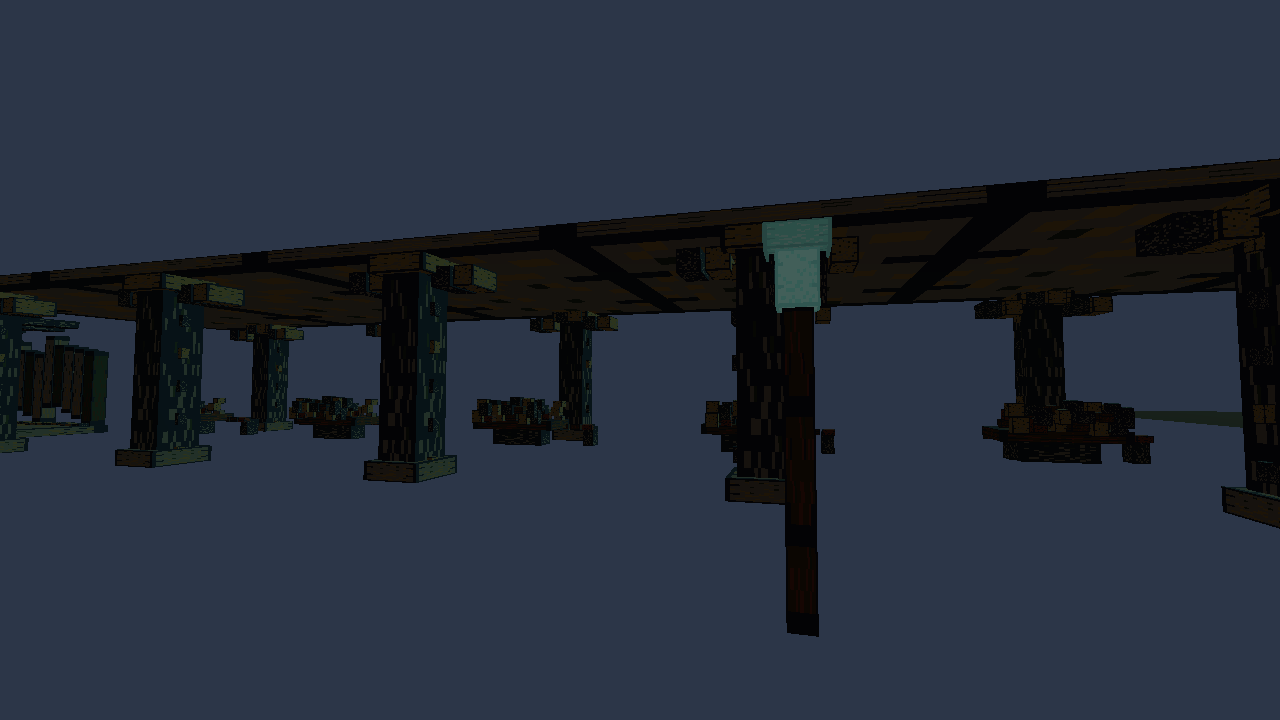
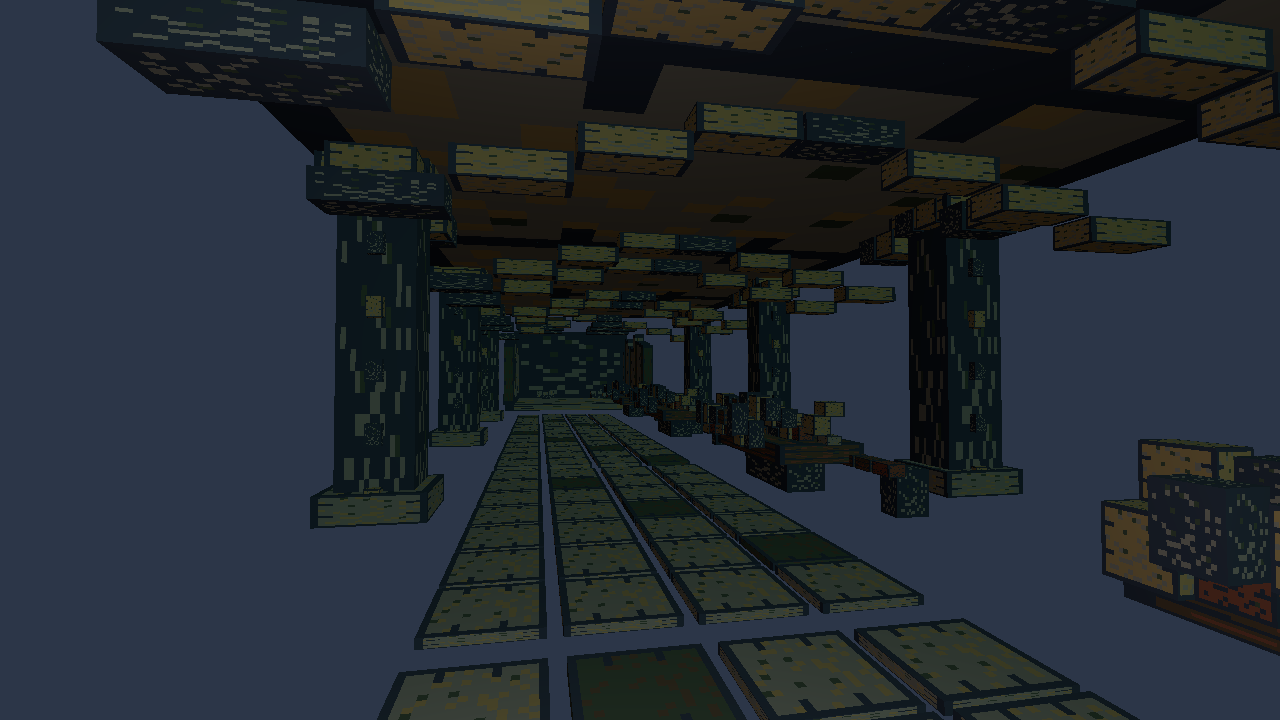
U-10 visual review R4/R5: reshape roofs, arcade vault and pavement after 4 camera critique

diff --git a/tests/town-blockout-underground-warrior-architecture.test.ts b/tests/town-blockout-underground-warrior-architecture.test.ts
@@ -13,11 +13,11 @@ test('YS4 mass modeling actually builds twelve complete houses, four furnished h
   assert.equal(tally.marketBays, 7);
   assert.equal(tally.ruination, 1);
   assert.equal(tally.wallMeters, 90);
-  assert.ok(tally.architecturePieces > 6000,
+  assert.ok(tally.architecturePieces > 6800,
     'round 1 must produce real buildings rather than a tiny API/test-only patch');
-  assert.ok(tally.facadePieces >= 4000);
+  assert.ok(tally.facadePieces >= 4700);
   assert.ok(tally.roomPieces >= 270);
-  assert.ok(tally.marketPieces >= 700);
+  assert.ok(tally.marketPieces >= 1000);
   assert.ok(tally.ruinedHousePieces >= 70);
   assert.ok(tally.wallPieces >= 700);
   assert.equal(pieces.length,
@@ -33,6 +33,9 @@ test('YS4 each stone house has continuous front/rear courses, roof tiles and a r
     assert.ok(props.some(piece => piece.name.includes('/jamb--1')));
     assert.ok(props.some(piece => piece.name.includes('/jamb-1')));
     assert.ok(props.filter(piece => piece.name.includes('/roof-tile-')).length >= 24);
+    assert.equal(props.filter(piece => piece.name.includes('/pitched-roof-course-')).length, 18,
+      'the first screenshot showed an over-flat roof: stepped roof courses must now be visible');
+    assert.equal(props.filter(piece => piece.name.includes('/stepped-roof-gable-')).length, 18);
     assert.ok(props.filter(piece => piece.name.includes('/rear-course-')).length >= 80);
     assert.ok(props.filter(piece => piece.name.includes('/front-course-')).length >= 60);
     assert.ok(props.every(piece => !piece.name.includes('sign') && !piece.name.includes('placeholder')));
@@ -53,9 +56,11 @@ test('YS4 seven market bays have vault ribs, physical-looking ware clusters and 
   for (let bay = 0; bay < 7; bay++) {
     const prefix = 'u10/arcade-bay-' + bay + '/';
     const props = market.filter(piece => piece.name.startsWith(prefix));
-    assert.ok(props.length >= 100, prefix);
+    assert.ok(props.length >= 140, prefix);
     assert.equal(props.filter(piece => piece.name.includes('/coffer-')).length, 30);
     assert.equal(props.filter(piece => piece.name.includes('/wares-')).length, 29);
+    assert.equal(props.filter(piece => piece.name.includes('/visible-vault-')).length, 16);
+    assert.equal(props.filter(piece => piece.name.includes('/floor-course-')).length, 28);
     assert.equal(props.filter(piece => piece.name.includes('/counter-slats-')).length, 9);
     assert.ok(props.filter(piece => piece.solid).length <= 2,
       'market aisle should not be filled with invisible impassable furniture');
@@ -87,7 +92,7 @@ test('YS5 supporting battlement courses follow the certified 90m range without f
     'extension ornaments may not create new unregistered walls on the 90m walk');
 });
 
-test('YS4/YS5 6107 new blocks are finite, positive and batched into the eight existing stone palettes', () => {
+test('YS4/YS5 full architecture stays finite and batched into the eight approved stone palettes', () => {
   const names = new Set<string>();
   const families = new Set<string>();
   for (const piece of pieces) {

diff --git a/tools/voxel-tavern/town-blockout/underground-warrior-architecture.ts b/tools/voxel-tavern/town-blockout/underground-warrior-architecture.ts
@@ -124,6 +124,26 @@ function buildStoneHomes() {
         x, h + .62, front + side * (1.35 + r * 2.75),
         .38, .24, 2.6);
     }
+    // R4 silhouette correction after the actual screenshot review: ancient
+    // double-pitched roofs rise toward a stepped high central ridge instead
+    // of reading as a single flat sheet across twelve identical house fronts.
+    for (let col = 0; col < 9; col++) {
+      const e = x - w / 2 + .53 + col * (w - 1.06) / 8;
+      const tier = Math.min(col, 8 - col);
+      for (let r = 0; r < 2; r++) {
+        block('home-facade', prefix + '/pitched-roof-course-' + col + '-' + r,
+          (col + index + r) % 5 === 0 ? 'shade' : 'tan',
+          e, h + .64 + tier * .095,
+          front + side * (2.4 + r * 3.7),
+          .66, .16, 3.52);
+      }
+      for (const gable of [front, rear]) {
+        block('home-facade', prefix + '/stepped-roof-gable-' + col + '-' + gable,
+          tier % 3 ? 'wall' : 'shade', e, h + .43 + tier * .09,
+          gable + (gable > 0 ? .18 : -.18),
+          .68, .26 + tier * .08, .23);
+      }
+    }
     // The eight sealed doors still have complete facades and readable debris,
     // but no invisible working inside or player-through-wall route.
     if (!house.accessible) {
@@ -226,6 +246,19 @@ function buildArcade() {
           n + (side ? .2 : -.2), .4, .38, .83);
       }
     }
+    // R4 picture review found the continuous ceiling visually too flat.
+    // Exposed 8-segment stepped vaults cross the aisle above 2.8m headroom;
+    // every bay gets a real visible masonry arch, not a floating roof sheet.
+    for (let vault = 0; vault < 8; vault++) {
+      const north = -17.55 - vault * 1.04;
+      const archRise = (1 - Math.abs(vault - 3.5) / 3.5) * .92;
+      for (const edge of [-1, 1]) {
+        block('arcade-market', name + '/visible-vault-' + edge + '-' + vault,
+          vault % 4 === 0 ? 'shade' : 'tan',
+          x + edge * 2.24, 3.15 + archRise, north,
+          .42, .26, 1.01);
+      }
+    }
     // Curved-appearance stepped ceiling formed by offset voxel courses.
     for (let row = 0; row < 5; row++) for (let col = 0; col < 6; col++) {
       const e = x - 2.53 + col * 1.0;
@@ -250,6 +283,15 @@ function buildArcade() {
         rail % 3 === 0 ? 'rust' : 'wood',
         x - 1.20 + rail * .36, .55, -22.88,
         .31, .15, .22);
+    }
+    // R5 patchwork slate floor: material participates in the camera's low
+    // foreground, but the top remains 2cm BELOW accepted y=0 feet. This is
+    // authentic paving, not a new invisible physics blocker.
+    for (let p = 0; p < 7; p++) for (let lane = 0; lane < 4; lane++) {
+      block('arcade-market', name + '/floor-course-' + p + '-' + lane,
+        (p + 2 * lane + bay) % 11 ? 'wall' : 'moss',
+        x - 2.85 + p * .88, -.06, -18.45 - lane * .95,
+        .82, .075, .84);
     }
     for (const edge of [-1, 1]) {
       block('arcade-market', name + '/counter-foot-' + edge, 'shade',

diff --git a/tools/fixtures/underground-warrior-architecture-review.ts b/tools/fixtures/underground-warrior-architecture-review.ts
@@ -1,6 +1,6 @@
 import {
   AmbientLight, Color, DirectionalLight, FogExp2, Mesh, MeshStandardMaterial,
-  PerspectiveCamera, PlaneGeometry, Scene, WebGLRenderer,
+  PerspectiveCamera, PlaneGeometry, PointLight, Scene, WebGLRenderer,
 } from 'three';
 import { mountWarriorStoneDistrict } from '../voxel-tavern/town-blockout/underground-warrior-stone-district';
 
@@ -27,6 +27,13 @@ renderer.setSize(window.innerWidth, window.innerHeight);
 renderer.setClearColor(0x2c3648);
 document.body.append(renderer.domElement);
 const camera = new PerspectiveCamera(67, window.innerWidth / window.innerHeight, .09, 300);
+// Review-only approximation of the accepted player's headlamp in U-13.
+// It does not register a new light in the official city scene or circumvent
+// the six real moonstone fixtures and server-selected budget of three.
+const reviewHeadlamp = new PointLight(0xe8ecf0, 7.2, 17, 2);
+reviewHeadlamp.position.set(0, 0, -.15);
+camera.add(reviewHeadlamp);
+scene.add(camera);
 const views = {
   'home-street': {
     eye: [47, 1.67, 1.5] as const,
@@ -37,12 +44,12 @@ const views = {
     target: [37.75, 1.55, -15.5] as const,
   },
   'market-arcade': {
-    eye: [141, 1.68, 8.3] as const,
-    target: [145, 2.4, 22] as const,
+    eye: [141, 1.68, 18.8] as const,
+    target: [158, 2.1, 22] as const,
   },
   'citywall-top': {
-    eye: [124, 8.77, -26.65] as const,
-    target: [139, 2.25, -5.4] as const,
+    eye: [101, 8.77, -27] as const,
+    target: [155, 7.85, -27] as const,
   },
 } as const;
 type View = keyof typeof views;

diff --git a/docs/交流区/GPT/窗C-U10七轮建模大批交付-2026-11-21.md b/docs/交流区/GPT/窗C-U10七轮建模大批交付-2026-11-21.md
@@ -15,17 +15,17 @@
 | R1 主体大量建模 | 12 户石屋的前后大面积多层错缝石墙、门梁门框、扶壁、屋檐、屋顶瓦片、破损梁、檐部；7 摊石质拱廊支撑与连续拱顶；90m 城墙外立面与扶壁 | 不新造主窗口 YS1 五段主街、YS2 锻造、YS3 勇士像；四户开放/八户封锁原设计不改 |
 | R2 补完剩余建模 | 4 户真可进屋补足墙柜、石凳、独立家居器皿与工具人迹；7 摊均有货架/柜体/器物/顶棚；补建拱廊尽头原缺少的**完整半塌石屋**（冰傀儡场地视觉标记、不自行刷怪） | 每屋物品不同但不写未核故事文字；不重复造怪物权威 |
 | R3 修补与碰撞 | 用真实 `isClearLocal([E,Y,N],.27,1.8)` 扫过石屋主街、市场横向走廊、半塌屋入口和 90m 城墙顶；四户可进入原有 BFS 均能到搜寻/掩护点，门内不走墙后暗路；新结构级碰撞仅 77 个，不给每个小砖块建假障碍 | 仅证明经宿主注册后的构件几何与测试脚，不等于默认玩家已在正式地下域实走 |
-| R4 参考图画风 | 依据参考 02/04 室内、05/07 暗岩，改 `16×16` 色板材质：最近邻、禁止 mipmap 平滑、石材凿痕/磨损/像素描边、木纹、锈斑/漏痕，只从既定八种石木晶颜色取色；月光石微弱自发光只强化已注册光源 | 暗场和冷暖对比受生产灯光/宿主预算限制，不冒充比图通过 |
-| R5 细节 | 木/锈柜、屋顶板、井字门柱、外墙排水小石、小器具、满架摊台、城市守城遗迹等随 R1/R2 已批量入形；全物体共用 8 组 InstancedMesh | 不用实体数量代替真实第一人称清晰度；仍须总控美术审稿 |
+| R4 参考图画风 | 依据参考 02/04 室内、05/07 暗岩，改 `16×16` 色板材质：最近邻、禁止 mipmap 平滑、石材凿痕/磨损/像素描边、木纹、锈斑/漏痕，只从既定八种石木晶颜色取色；月光石微弱自发光只强化已注册光源；**第一版截图打回屋顶轮廓过平，第二版加双坡屋面/檐口高低级差** | 暗场和冷暖对比受生产灯光/宿主预算限制，不冒充正式世界比图通过 |
+| R5 细节 | 木/锈柜、屋顶板、井字门柱、外墙排水小石、小器具、满架摊台、城市守城遗迹等随 R1/R2 已批量入形；**对照首版市场截图补每摊跨间显形拱券和 28 片石板路**，全物体共用 8 组 InstancedMesh | 不用实体数量代替真实第一人称清晰度；仍须总控美术审稿 |
 | R6 玩法 | 原 U-10 11 个活动站位使用同一共享脚点与 Presence 权威；E 真实请求号/版本/同域/视线/持久事务防重放，未许前端结算 G-11 奖励 | **真实服务器接入、地下 −165m 与默认出生 E** 未确认；本批不伪报正式挂载 |
 | R7 审核推送 | 模型批先提交/推送 `lane-c`，再检查定向/地下套测、TypeScript/Vite 构建、Chromium 四机位截图、用最新主干审合；发生冲突停下修正，不强推 | 接入与上线认定仍以总控默认出生点实走为准 |
 
 ## 可复核的建筑体量、性能与浏览器验收
 
-- `tools/voxel-tavern/town-blockout/underground-warrior-architecture.ts` 新增 **6,107 块建筑构件**：前后/侧面与屋顶外构 4,325、四屋内 281、七摊拱廊 714、廊尾半塌石屋 75、城墙饰构 712；附加结构级物理碰撞 **77**。原 U-10 场景几何加上这些总 **8,181** 块；不是复制几百个空盒。
-- 单独被审的四个镜头（本地 Chrome，1280×720）：`1-home-street.png` 石屋街，`2-home-interior.png` 可进屋，`3-market-arcade.png` 市场，`4-citywall-top.png` 城顶，均在旁边子目录 `窗C-U10建模审图-2026-11-21`；机器自测四镜头 **9 draw calls、98,174 triangles、3 个点光显示**，无页面错误。**这是独立 WebGL 审图夹具，不是正式默认玩家进地下的证据。**
+- `tools/voxel-tavern/town-blockout/underground-warrior-architecture.ts` 新增 **6,847 块建筑构件**（首批 6,107，经第一人称审图又补分层双坡屋顶/可见拱券/市场石板 740）：前后/侧面与屋顶外构 4,757、四屋内 281、七摊拱廊 1,022、廊尾半塌石屋 75、城墙饰构 712；附加结构级物理碰撞 **77**。原 U-10 场景几何加上这些总 **8,921** 块；不是复制几百个空盒。
+- 单独被审的四个镜头（本地 Chrome，1280×720）：`1-home-street.png` 石屋街，`2-home-interior.png` 可进屋，`3-market-arcade.png` 市场，`4-citywall-top.png` 城顶，均在旁边子目录 `窗C-U10建模审图-2026-11-21`；首轮截图查出屋顶扁平、拱廊缺铺地、第一人称屋内昏暗，已返工双坡屋面、显形石拱与石板路并重新截四张。机器自测四镜头 **8–9 draw calls、约 107,054 triangles、3 个宿主批准的石灯点光**，外加**独立审图夹具自带的 1 盏模拟 U-13 玩家头灯**；无页面错误。**这是独立 WebGL 审图夹具，不是正式默认玩家进地下的证据。**
 - `tests/town-blockout-underground-warrior-architecture.test.ts` 保证每户真立面/屋顶、市场七摊道具、半塌石屋与物理脚点；`tests/town-blockout-underground-warrior-stone-district.test.ts` 保证整条路线 .27m 胶囊可通、四屋真实 BFS、统一代码权威 E 请求、材质像素严格按既定色板。
-- 画质/预算技术检查：八个批次 + 地面 1 draw，97–99k 三角形量级，超多小砖不是每块一个 WebGL draw；新模型没有触碰共享 `viewer.ts` 和主干大型文件。仍需正式手机帧率实测，WebGL SwiftShader 软件渲染数不能充当手机 FPS。
+- 画质/预算技术检查：八个批次 + 地面 1 draw，约 107k 三角形量级，超多小砖不是每块一个 WebGL draw；新模型没有触碰共享 `viewer.ts` 和主干大型文件。仍需正式手机帧率实测，WebGL SwiftShader 软件渲染数不能充当手机 FPS。
 
 ## 四齐自查（本轮必须如实写否）
 
